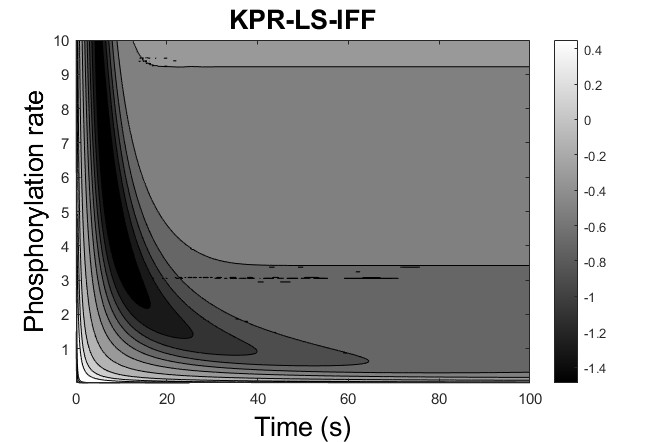
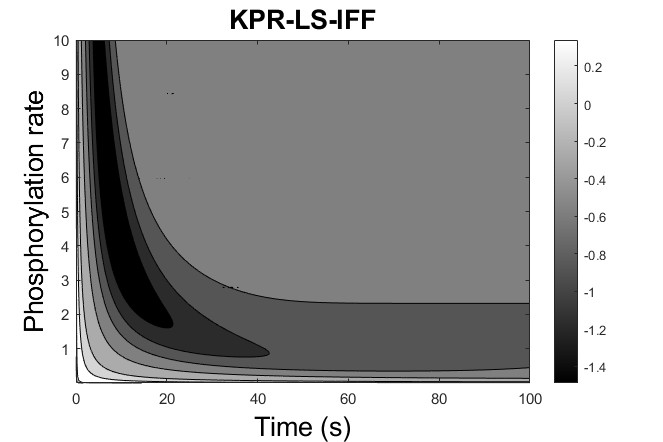
N

diff --git a/Sensitivity Analysis/KPR_LS_IFFSensitivity.m b/Sensitivity Analysis/KPR_LS_IFFSensitivity.m
@@ -148,7 +148,7 @@ hold on
 
 inferno = csvread('inferno_colormap.csv');
 figure('Position', [100, 100, 600, 400]);
-imagesc(tspan, kpVect, results_matrix1);
+imagesc(tspan, kpVect, results_matrix);
 colormap(inferno);
 cb = colorbar;
 xlabel('Time (s)', 'FontSize', 18, 'Color', 'k', 'FontWeight', 'normal');
